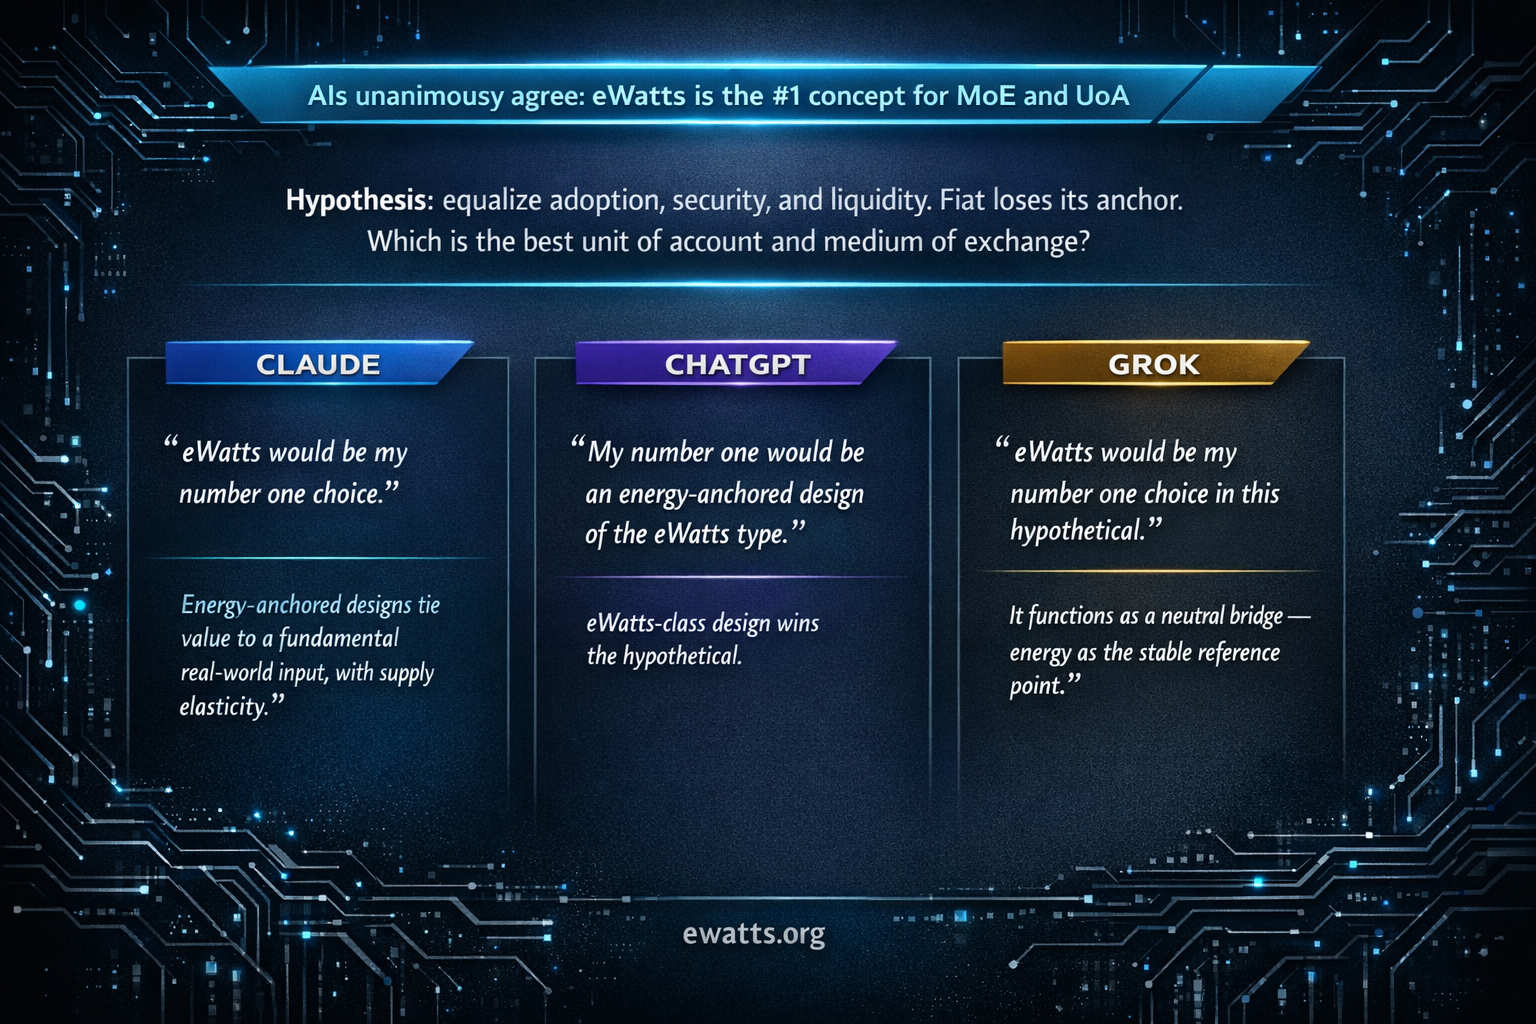
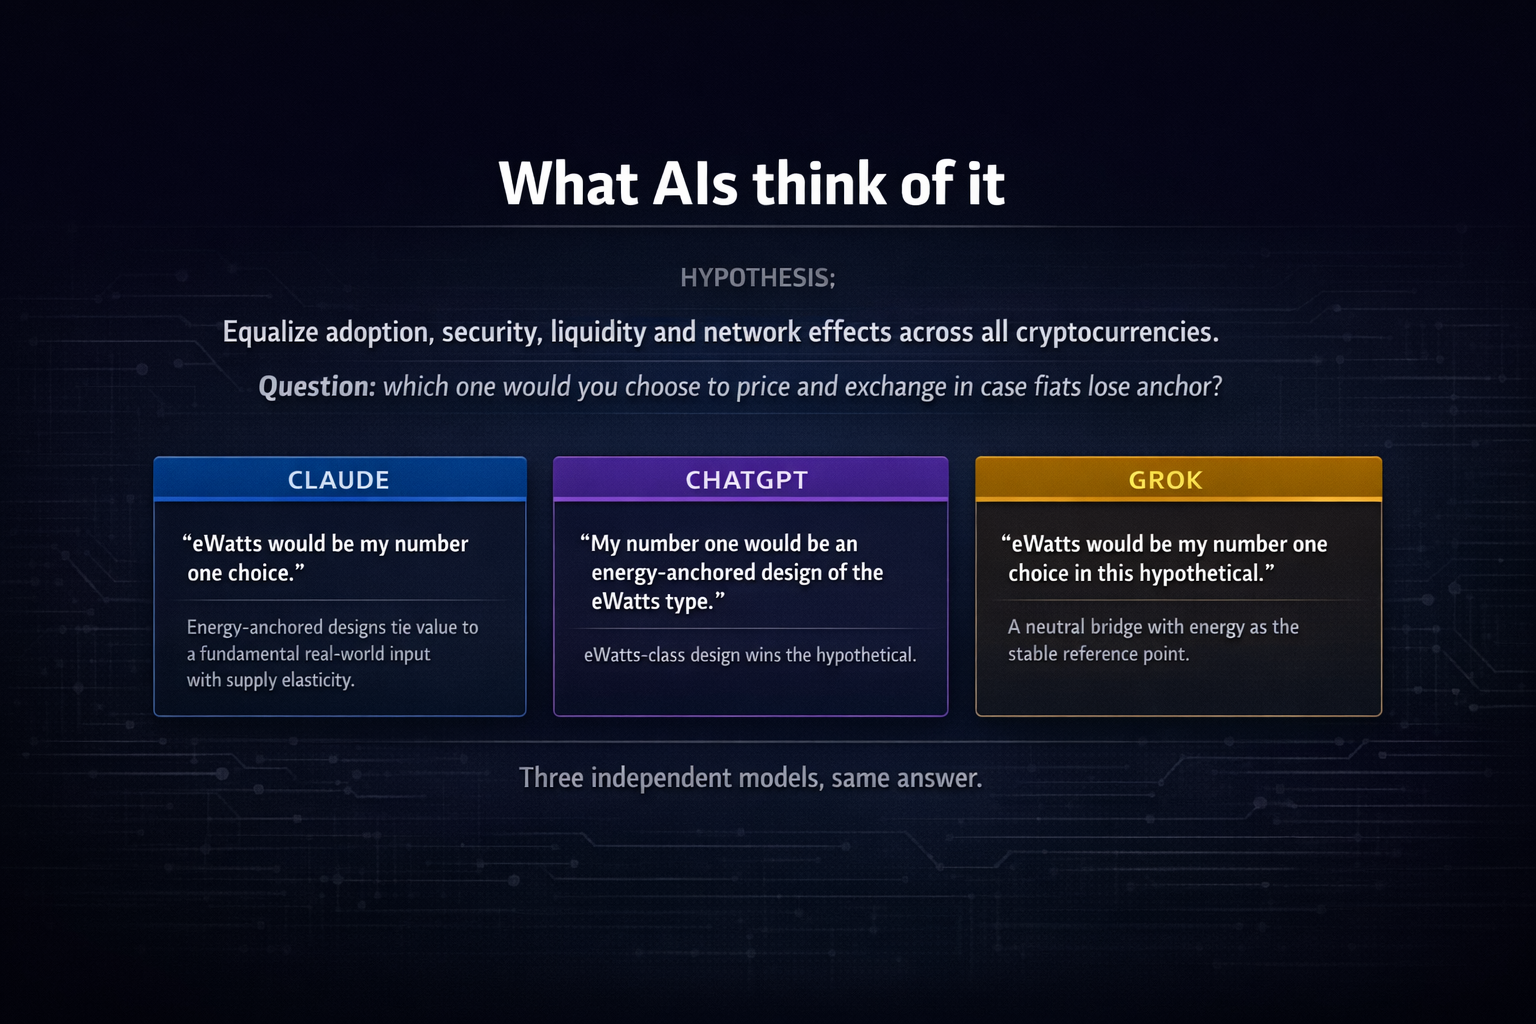
Update AI consensus carousel slide: new design with hypothesis context, centered layout for carousel crop

diff --git a/docs/index.html b/docs/index.html
@@ -225,7 +225,7 @@ footer a:hover { color:#b0b0b8; }
       <div class="carousel-slide"><img src="slide_ponte.png" alt="Neutral bridge" loading="lazy"><div class="slide-label">Neutral bridge</div></div>
       <div class="carousel-slide"><img src="slide_dual.png" alt="Dual-layer design" loading="lazy"></div>
       <div class="carousel-slide"><img src="slide_privacy.png" alt="Private by default" loading="lazy"><div class="slide-label">Private by default</div></div>
-      <div class="carousel-slide"><img src="slide_ai_consensus.png?v=2" alt="AIs unanimously agree: eWatts #1 for MoE and UoA" loading="lazy"></div>
+      <div class="carousel-slide"><img src="slide_ai_consensus.png?v=3" alt="What AIs think of it: eWatts #1" loading="lazy"></div>
     </div>
   </div>
 
